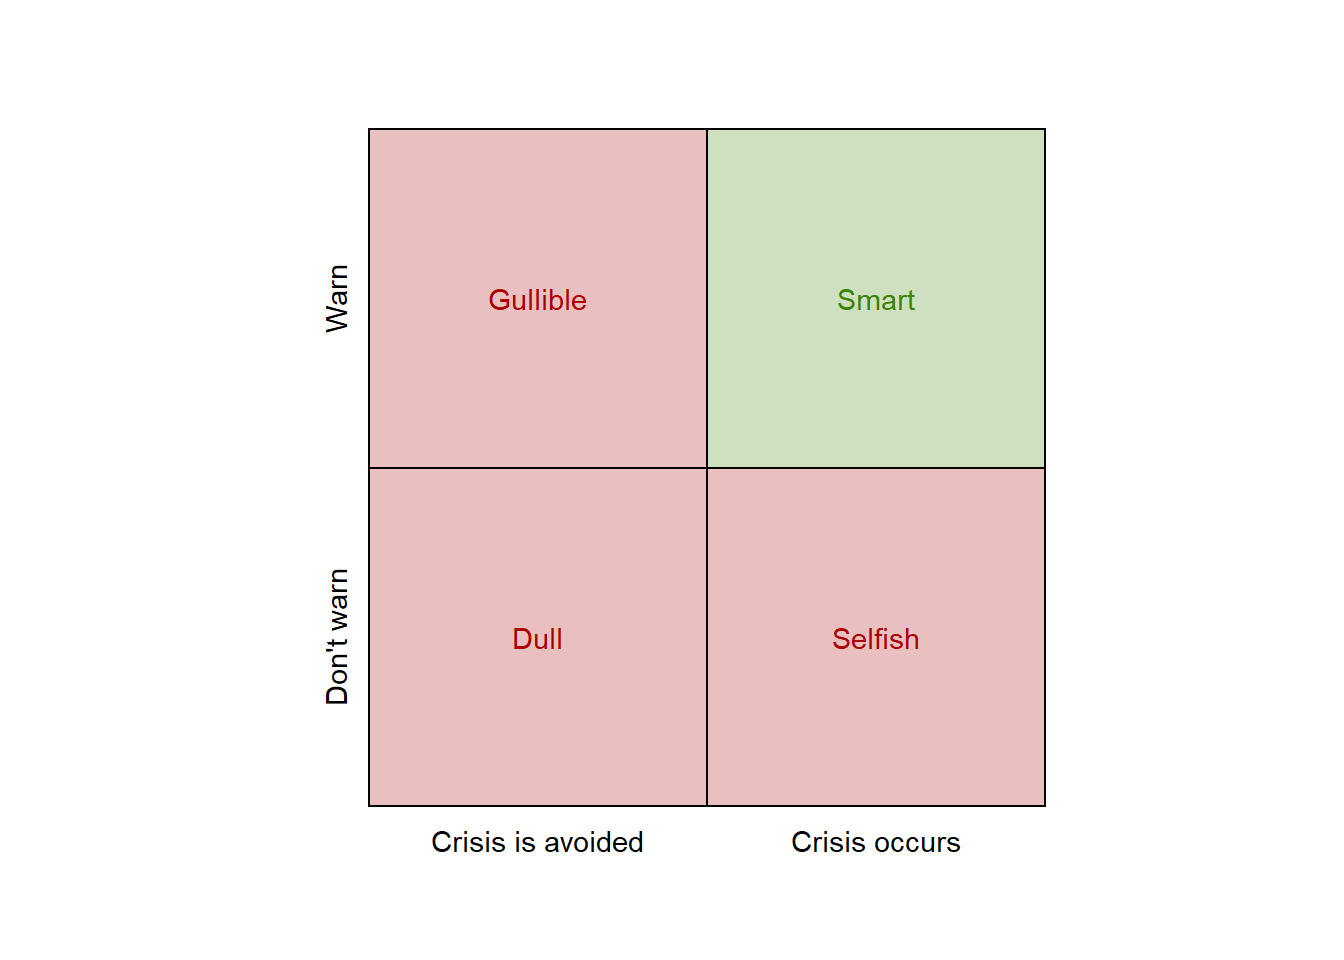
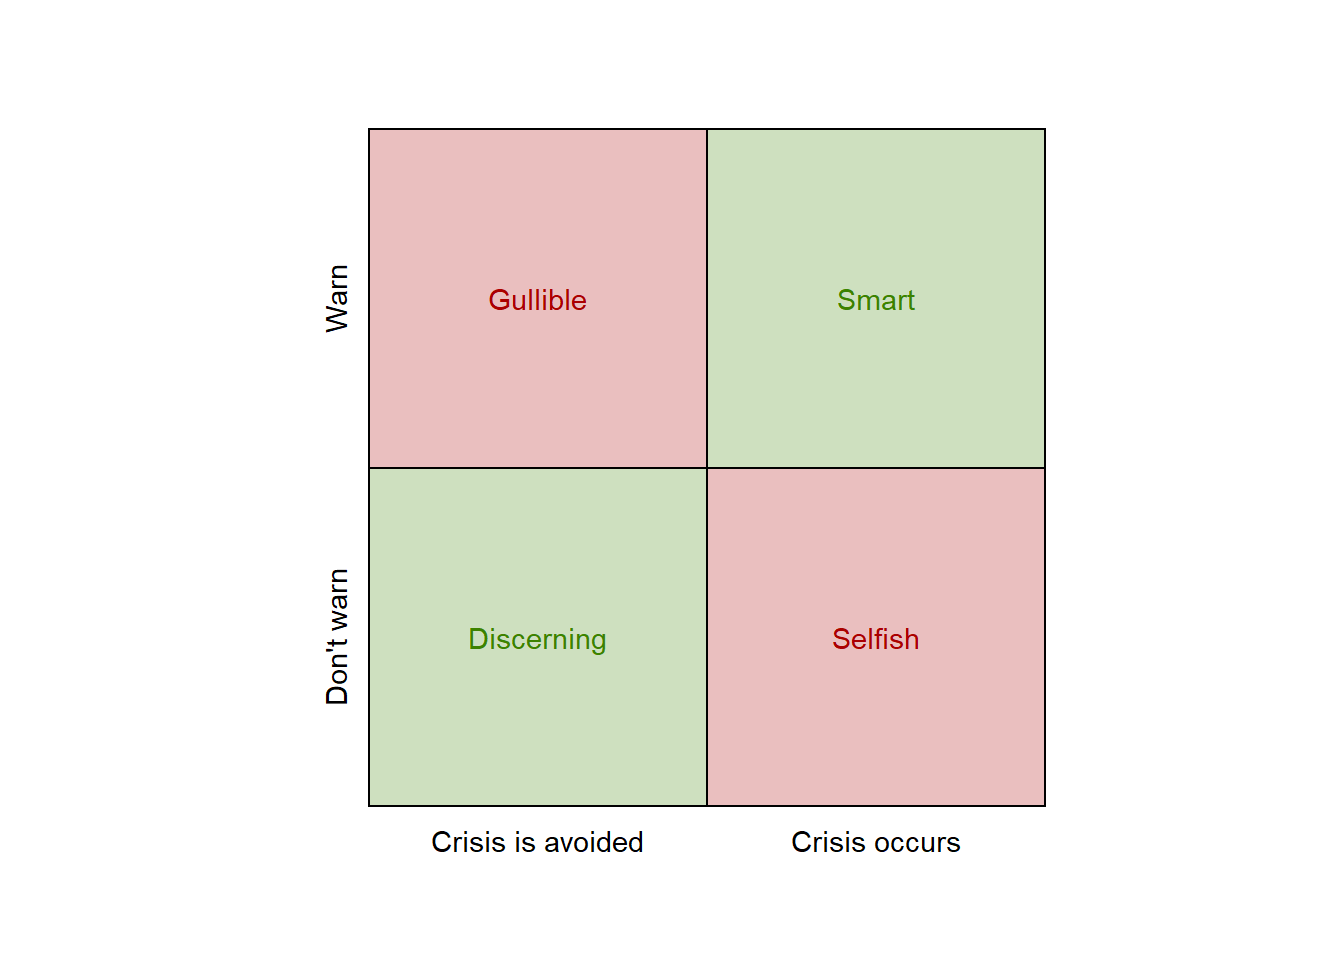
bringing up to date

Changed region(s): [[0.25, 0.4688, 0.5312, 0.8438]]

diff --git a/content/posts/2020-03-12-unstable-equilibria.html b/content/posts/2020-03-12-unstable-equilibria.html
@@ -20,3 +20,4 @@ images:
 <p>Over the last few weeks, the Coronavirus, more properly known as COVID-19, has been on my mind more than anything else. I follow several tech people on Twitter who were early voices sounding the alarm on COVID-19 - primarily <a href="https://twitter.com/balajis">Balaji Srinivasan</a> and <a href="https://twitter.com/ScottGottliebMD">Scott Gottlieb</a>. Normally, I’m fairly conservative and skeptical of warnings like these. Fortunately, however, Balaji, Scott, and others convinced me through their in-depth and informative tweets that COVID-19 was going to be a serious crisis in just a matter of a few weeks. My wife and I took a trip to Costco to stock up on non-perishables like peanut butter and toilet paper (the essentials) and were able to avoid the rush that has been increasing as the public has become more fearful and hoarding.</p>
 <p>I have struggled to decide when I should sound the alarm myself and begin warning family, friends, and everyone else around me in my professional life. I expected four possible outcomes:</p>
 <p><img src="/posts/2020-03-12-unstable-equilibria_files/figure-html/unnamed-chunk-2-1.png" width="672" /></p>
+<p>If all scenarios are equally likely, I have a 50/50 shot of an optimal outcome.</p>
